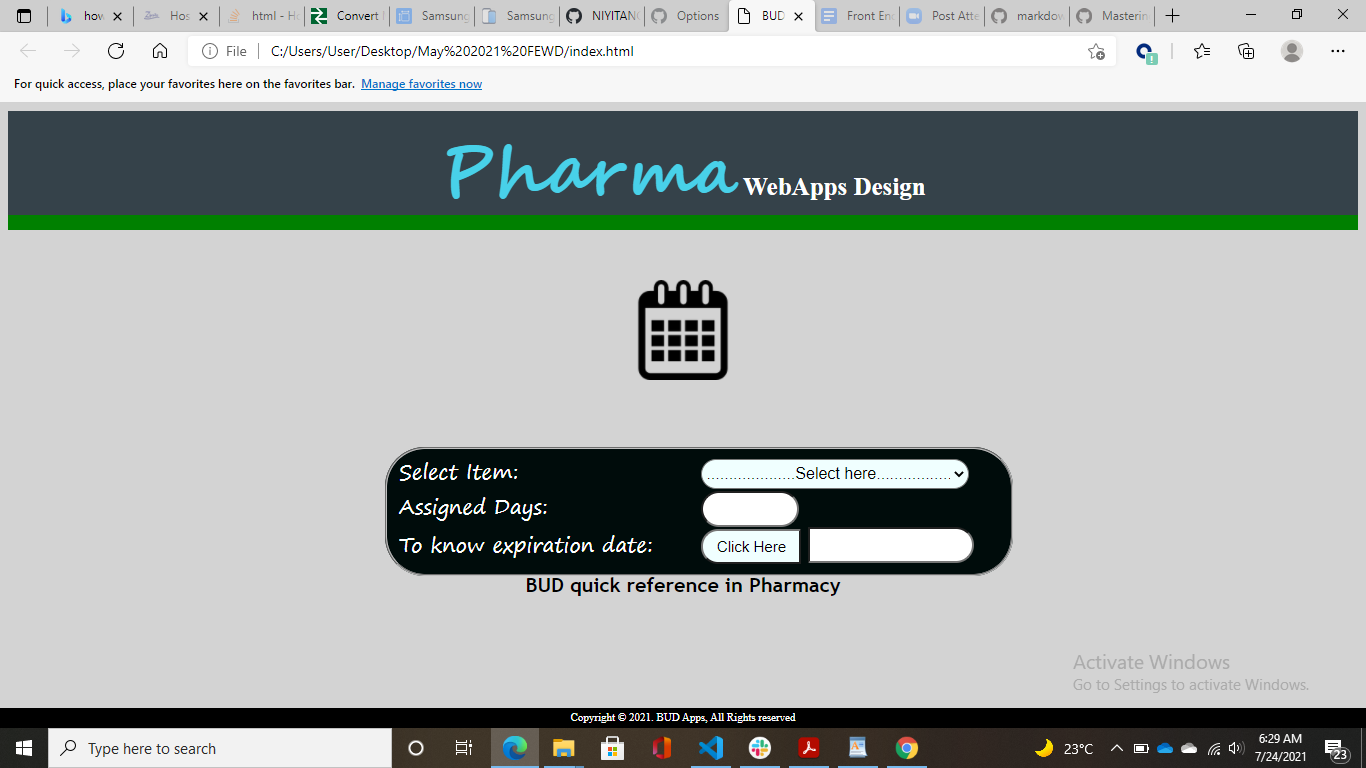
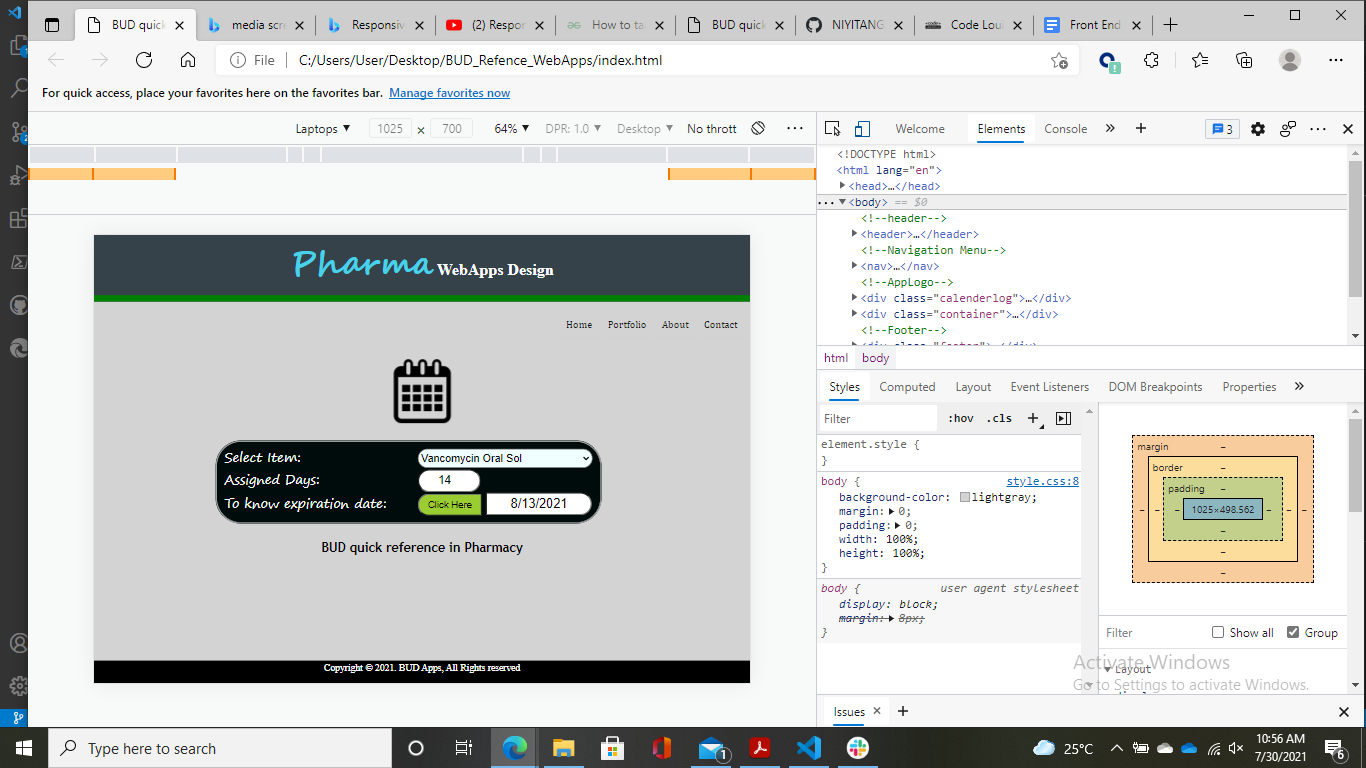
readme updates

diff --git a/style.css b/style.css
@@ -78,7 +78,7 @@
     
       img.calenderlog.image-resize 
       {
-        max-width: 100px;
+        max-width: 60px;
         margin: 5% auto;
         display: block;
       }
@@ -192,6 +192,7 @@
         font-size: 15px;
         padding-top: 3px;
         padding-bottom: 2px;
+        overflow: hidden;
       }
 
 
@@ -248,15 +249,6 @@
         color: cadetblue;
       }    
 
-
-  /* ----calenderLogo layout---- */
-    
-      img.calenderlog.image-resize 
-      {
-       height: 50px;
-       
-      }    
-
   /*-----Container layout-----*/
 
       .container
@@ -268,6 +260,7 @@
       form 
       {
         max-width: 95%;
+        margin-top: -5%;
       }
 
       select#Item 
@@ -348,7 +341,7 @@
        img.calenderlog.image-resize 
        {
         margin: 50px auto 20px;
-        height: 100px;
+        max-width: 100px;
        }
  
 
@@ -378,7 +371,13 @@
  
  /*-----Container layout-----*/
 
-      select#Item 
+        form 
+        {
+        padding-top: 50px;
+
+        }
+ 
+       select#Item 
        {
        max-width: 273px;
        font-size: 17px;
@@ -435,10 +434,10 @@
 
 
 /* ----calenderLogo layout---- */
-  .calenderlog
+  img.calenderlog.image-resize
   {
    margin: 90px auto 20px;
-   height: 100px;
+   max-width: 100px;
   }
 
 /* ----Navigation Menu layout---- */
@@ -479,7 +478,8 @@
 /*-----Container layout-----*/
   form 
     {
-    padding-top: 20px;
+    padding-top: 50px;
+
     }
 
 }

diff --git a/index.html b/index.html
@@ -25,7 +25,7 @@
         <nav>
             <ul>
                 <li><a href="#">Home</a></li>
-                <li><a href="#">Protfolio</a></li>
+                <li><a href="#">Portfolio</a></li>
                 <li><a href="#">About</a></li>
                 <li><a href="#">Contact</a></li>
             </ul>

diff --git a/ReadMe.md b/ReadMe.md
@@ -23,17 +23,27 @@ This BUD quick reference apps is a smart way of knowing the expiration date of t
 
 ![Mobile Landscape Layout](https://github.com/NIYITANGA/BUD_Reference_WebApps/blob/master/image/landscape.png)
 
-  - Second media query creates a better user experience on large screen: desktop and laptop
+  - Second media query creates a better user experience on tablet and Ipad screen
 
-![Mobile Desktop Layout](https://github.com/NIYITANGA/BUD_Reference_WebApps/blob/master/image/desktop.png)
+![Tablet Layout](https://github.com/NIYITANGA/BUD_Reference_WebApps/blob/master/image/desktop.png)
+
+  - Third media query creates a better user experience on large screen: laptop and desktop
+
+![Desktop Layout](https://github.com/NIYITANGA/BUD_Reference_WebApps/blob/master/image/desktop.png)
+
 
 ## Features Included
 
-1. CSS Feature : `“nth-of-type”`
+1. First CSS Feature: `Nav menu`
 
-    - This is how it looks like on the mobile (orientation:landscape)
+   As you can see on the above screenshots of a mobile and tablet, this WebApps has a navigation menu that switches between vertical and horizontal styles when you expand it.
+   If you expdand the nav menu widely, it floats to the right-corner of the large screen(Desktop  and laptop).
 
-   ![nth-of-type Landscape Layout](https://github.com/NIYITANGA/BUD_Refence_WebApps/blob/master/image/nth-of-type-Landscape.png)
+2. CSS Feature : `“nth-of-type”`
+
+    - This is how it looks like on large screen: laptop and desktop
+
+   ![nth-of-type](https://github.com/NIYITANGA/BUD_Refence_WebApps/blob/master/image/nth-of-type-Landscape.png)
   
     
     I used `“nth-of-type”` to target the odd numbers of the selected-option drugs. In the css file, under container layout of the core style; you can see this
@@ -44,12 +54,12 @@ This BUD quick reference apps is a smart way of knowing the expiration date of t
         background-color: black;
        }`
 
-2. JavaScript Feature: displaying Assigned Days
+3. JavaScript Feature: displaying Assigned Days
     
     After selecting the item you want to know its BUD; the assigned days before expiration date is displayed automaticaly. 
     In the JavaScript file, the function `lItem ()` is used to create `var i` and `var displaynumber`. Since each option (item) has its value (assigned days), both vars are used to peform the action of displaying the assigned days number in its input with `Id="days"` when the item is selected. 
 
-3. JavaScript Feature: displaying date after click
+4. JavaScript Feature: displaying date after click
 
     A `const millisecondsInDay = 24 * 60 * 60 * 1000` , and two more `vars (numberOfDayToAdd and Expdate)` were created and used in the second function.The result of the first function is used also in the second function `function ExpirationDate(date, days)` after being transformed in millisecondInDay  `(millisecondsInDay * numberOfDayToAdd)`. 
     The calculation of the expiration date is done by adding the transformed assigned days to tody's date with `var=Date.now()`. In order to display the expirtion date in the `format mm/dd/yyyy`; I used the `toLocaleDateString function`.
@@ -61,3 +71,7 @@ It is easy to use on mobile (protrait and landscape layout) and computer.
    - To know the expiration date of the selected item, you have to click on the `click here` button, which will become yellowgreen. The expiration date will appear in the empty box beside the clicked button.
    - If you want to check BUD of another item, you will select it from the options as you did it previously. 
 
+## Author
+
+ **Theophile Niyitanga**
+  - [Email](mailto:theophileca@gmail.com? subject=BUD "Hi!")
